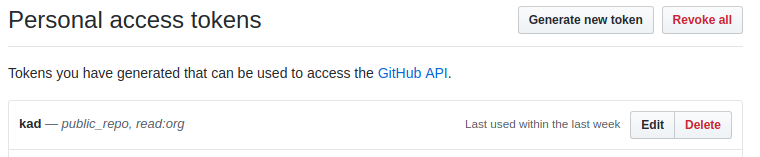
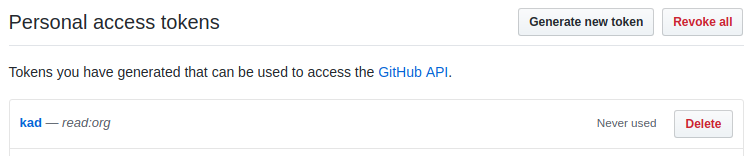
Document Github connector permissions to read:org (#200)
Fixes #195

diff --git a/docs/guides/authenticator/github.md b/docs/guides/authenticator/github.md
@@ -41,7 +41,7 @@ Additional flags for github:
 ```
 
 ### Issue Token
-To use Github authentication, you can use your personal access token with permissions to read `public_repo` and `read:org`. You can use the following command to issue a token:
+To use Github authentication, you can use your personal access token with permission to `read:org`. You can use the following command to issue a token:
 
 ```console
 $ guard get token -o github
